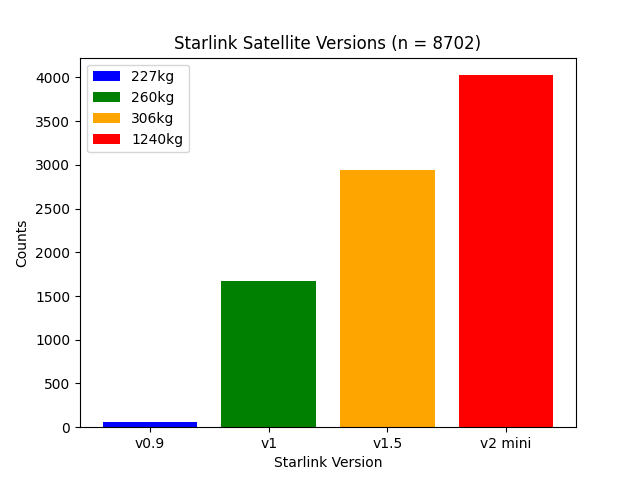
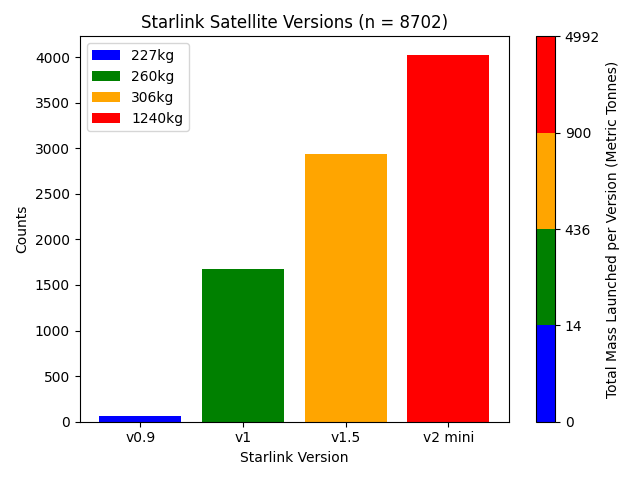
so close to getting the colormesh right

Changed region(s): [[0.0, 0.0312, 0.9688, 0.9688], [0.0625, 0.6562, 0.125, 0.7188], [0.0625, 0.7812, 0.125, 0.8125]]

diff --git a/src/severe_event_analysis.py b/src/severe_event_analysis.py
@@ -1,0 +1,155 @@
+import glob
+from special_tools import day2doy
+import pandas as pd
+from datetime import datetime
+import matplotlib.pyplot as plt
+import numpy as np
+from colormaps import plasma_w, idl39_w
+
+class SevereEvent:
+    def __init__(self, id):
+        df = pd.read_csv(f"../data/starlink_reentries_2020_2025/propagations/propagation_{id}.csv")
+        self.ref_epochs = str_list_to_datetime(df['EPOCH (BEGINNING WITH REFERENCE TLE)'])
+        self.ref_alts = df['ALTITUDE (KM)']
+        self.pred_epochs = str_list_to_datetime(df['PREDICTION EPOCH'])
+        self.pred_alts = df['PREDICTION ALT (KM)']
+        self.dst_list = get_dst_list(self.ref_epochs)
+        self.error_list = self.get_error_list()
+
+        # colormesh constants for ease of access
+        self.max_height = 300
+        self.min_height = 100
+        self.num_ybins = len(self.ref_alts)
+        self.bin_height = (self.max_height - self.min_height) / self.num_ybins
+        self.num_days = len(self.ref_epochs)
+
+        # the colormesh in question
+        self.colors = self.fill_colors()
+
+    def get_error_list(self):
+        error_list = []
+        for i in range(len(self.ref_epochs)):
+            error_list.append((self.ref_epochs[i] - self.pred_epochs[i]).days)
+        return error_list
+
+
+    def fill_colors(self):
+        colors = np.zeros((self.num_ybins, self.num_days))
+        for i in range(len(self.error_list)):
+            xbin = (self.ref_epochs[i] - self.ref_epochs[0]).days
+            ybin = int((self.ref_alts[i] - self.min_height) / self.bin_height)
+            error = self.error_list[i]
+            colors[ybin, xbin] = abs(error)
+        return colors
+
+def get_xbin_list(event):
+    xbins = []
+    for i in range(len(event.ref_epochs)):
+        time_after_ref = event.ref_epochs[i] - event.ref_epochs[0]
+        # get timedelta days as a float
+        xbins.append((time_after_ref.total_seconds() * 3600) / 24)
+    return xbins
+
+def get_ybin_list(event):
+    ybins = []
+    for i in range(len(event.ref_alts)):
+        ybins.append((event.ref_alts[i] - event.min_height) / event.bin_height)
+    return ybins
+
+def round_datetime(date_list):
+    new_dates = []
+    for date in date_list:
+        new_date = datetime(date.year, date.month, date.day, date.hour)
+        new_dates.append(new_date)
+    return new_dates
+
+def get_dst_list(ref_epochs):
+    time, dst = get_dst(ref_epochs[0])
+
+    rounded_dates = round_datetime(ref_epochs)
+    epoch_dst = []
+
+    for date in rounded_dates:
+        index = time.index(date)
+        epoch_dst.append(dst[index])
+    return epoch_dst
+
+def get_dst(begin_time):
+
+    """
+        Get dst data and corresponding datetimes
+
+        dtime: a datetime object (needs to coincide with the epoch of refeence altitude)
+
+    """
+
+    year = begin_time.timetuple()[0]
+    doy = begin_time.timetuple()[7]
+    hour = begin_time.timetuple()[3]
+    minute = begin_time.timetuple()[4]
+    second = begin_time.timetuple()[5]
+
+    # begin time in hours after 2020
+    begin_time_hours = (year - 2020) * 24 * 365 + (doy - 1) * 24 + hour + minute / 60. + second / 3600.
+
+    # open list to store dst data and datetime objects (ti)
+    dst, ti = [], []
+
+    # loop over all dst files (look for folder in Box: data/dst)
+    dst_bag = sorted(glob.glob('../data/dst/dst*'))
+
+    for file in dst_bag:
+        with open(file) as data:
+            for lines in data:
+
+                yy = int(lines[3:5]) + 2000
+                MM = int(lines[5:7])
+                dd = int(lines[8:10])
+
+                dy = day2doy(yy, MM, dd)
+
+                for i, j in zip(range(20, 119, 4), range(1, 25)):
+
+                    dst_time = (yy - 2020) * 365 * 24 + (dy - 1) * 24 + j - 1
+
+                    if begin_time_hours - 1 <= dst_time:
+                        dst.append(float(lines[i:i + 4]))
+                        ti.append(datetime(yy, MM, dd, j - 1))
+
+    return ti, dst
+
+def str_list_to_datetime(str_list):
+    datetime_list = []
+    for i in range(len(str_list)):
+        dt = datetime.strptime(str_list[i][:-6], "%Y-%m-%d %H:%M:%S")
+        datetime_list.append(dt)
+    return datetime_list
+
+def main():
+    id = 48451
+    event = SevereEvent(id)
+
+    '''fig, (alt_ax, dst_ax) = plt.subplots(2, 1)
+
+    # create alt plot
+    alt_ax.set_title(f"NORAD ID {id} Reentry Altitude")
+    alt_ax.set_xlabel("Epoch")
+    alt_ax.set_ylabel("Altitude (km)")
+    alt_ax.plot(event.ref_epochs, event.ref_alts)
+
+    # create dst plot
+    dst_ax.set_title(f"NORAD ID {id} Reentry Dst")
+    dst_ax.set_ylabel("Dst")
+    dst_ax.set_xlabel("Epoch")
+    dst_ax.plot(event.ref_epochs, event.dst_list)
+
+    plt.tight_layout()'''
+
+    # create colormesh
+    plt.pcolormesh(event.colors, cmap=plasma_w)
+    plt.colorbar(label = "Error in Days")
+    plt.yticks(np.linspace(0, event.num_ybins, 9), np.linspace(event.min_height, event.max_height, 9))
+    plt.scatter(get_xbin_list(event), get_ybin_list(event), c='black', s=3)
+    plt.show()
+
+main()

diff --git a/src/version_analysis.py b/src/version_analysis.py
@@ -2,6 +2,8 @@ from datetime import datetime
 from datetime import date
 import csv
 import matplotlib.pyplot as plt
+from matplotlib.colors import ListedColormap, BoundaryNorm
+from matplotlib.cm import ScalarMappable
 
 end_of_may = date(2025, 5, 31)
 min_date = date.today()
@@ -109,10 +111,22 @@ def make_graph():
             sat_dict[sat.version] += 1
         else:
             print(sat.version)
+    fig, ax = plt.subplots()
     plt.title(f"Starlink Satellite Versions (n = {sum(sat_dict.values())})")
     plt.xlabel("Starlink Version")
     plt.ylabel("Counts")
     plt.bar(sat_dict.keys(), sat_dict.values(), label = version_masses, color = ["blue", "green", "orange", "red"])
+
+    total_v09_mass = (227 * sat_dict["v0.9"]) * 0.001
+    total_v1_mass = (260 * sat_dict["v1"]) * 0.001
+    total_v15_mass = (306 * sat_dict["v1.5"]) * 0.001
+    total_v2_mini_mass = (1240 * sat_dict["v2 mini"]) * 0.001
+    bounds = [0, total_v09_mass, total_v1_mass, total_v15_mass, total_v2_mini_mass]
+    cmap = ListedColormap(['blue','green', 'orange', 'red'])
+    norm = BoundaryNorm(bounds, cmap.N)
+    fig.colorbar(ScalarMappable(cmap = cmap, norm = norm), ax=ax, label = "Total Mass Launched per Version (Metric Tonnes)")
+
+    plt.tight_layout()
     plt.legend()
     plt.savefig("../data/mass_graphs/starlink_versions.png")
 
